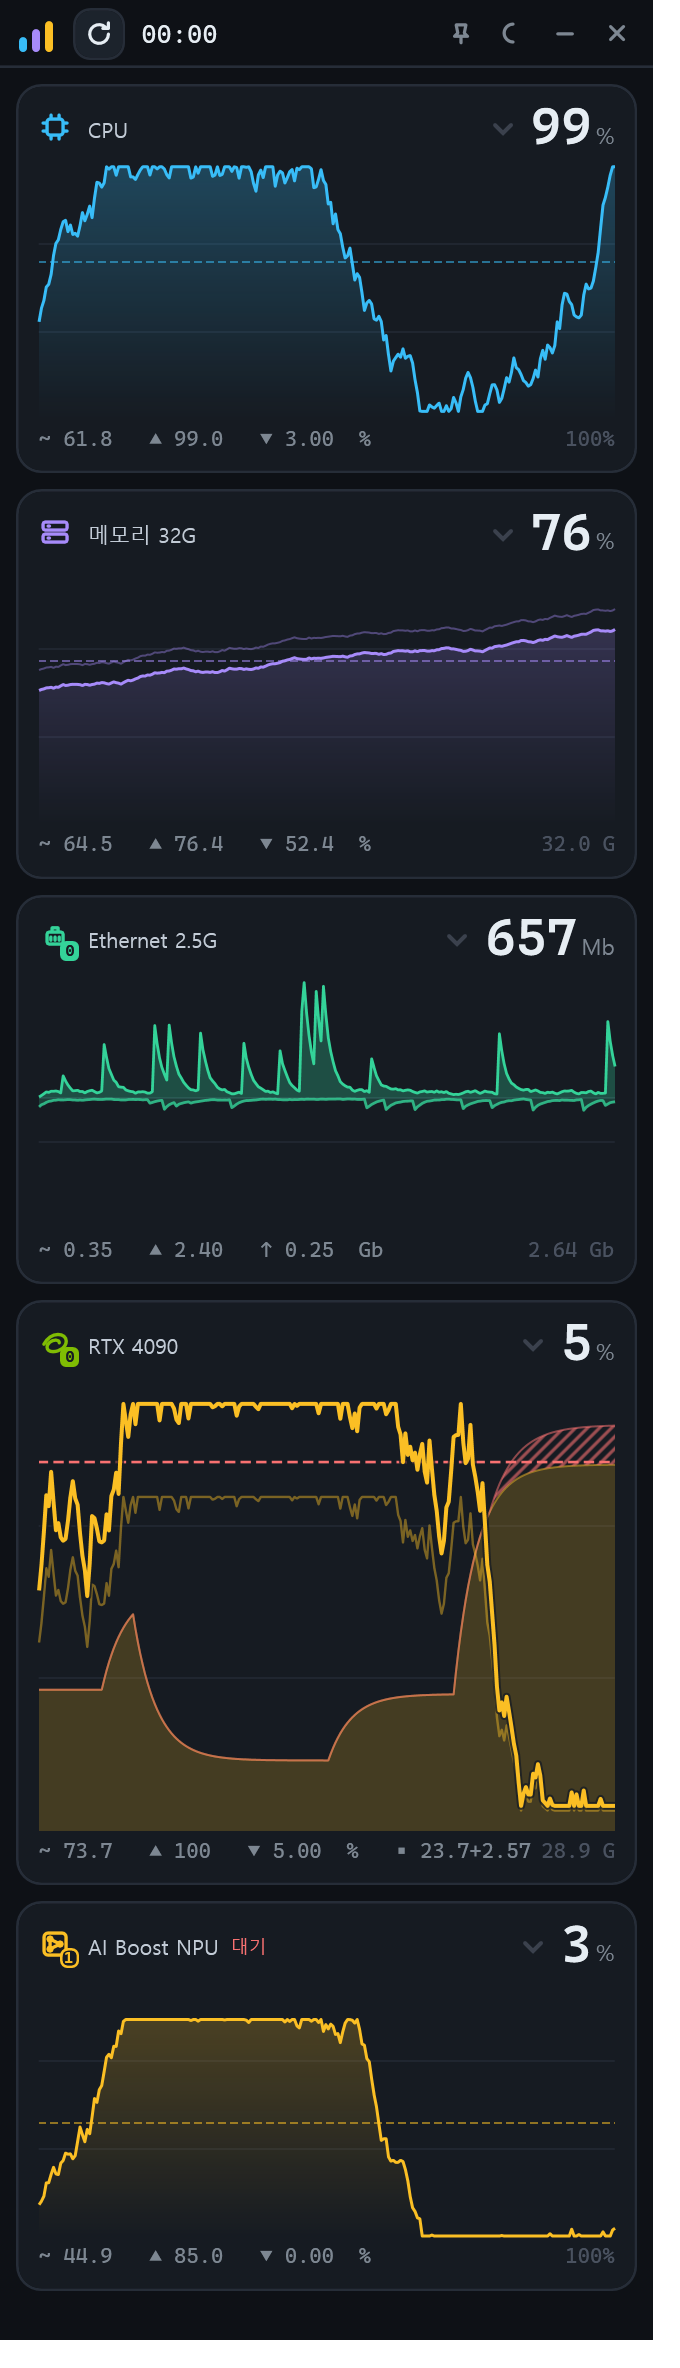
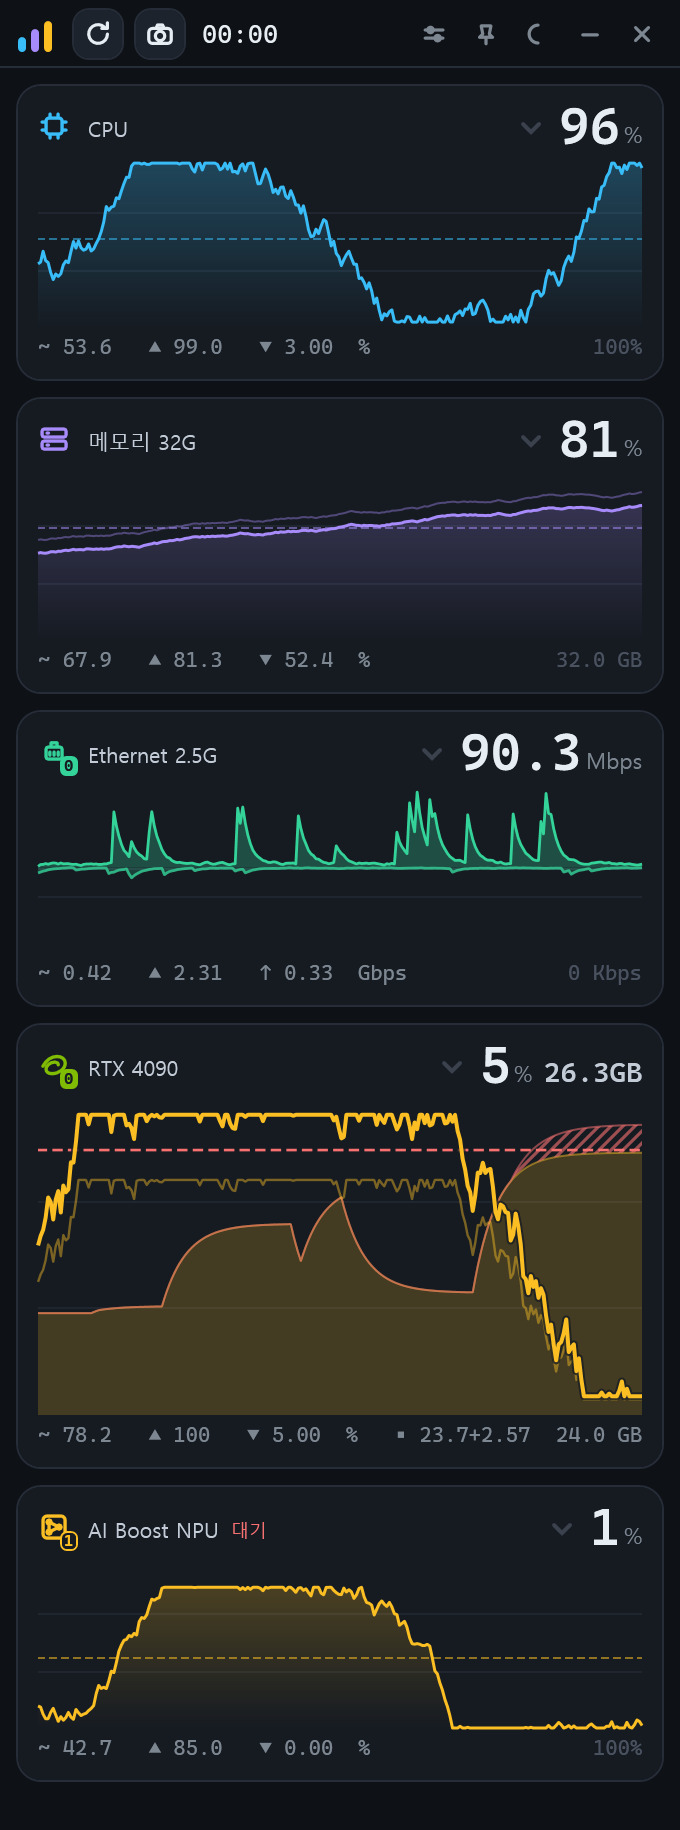
1.0.0 — 배포에 스크린샷·개정 이력을 싣고 버전을 올린다
README 스크린샷이 9/23 판이라 새 제목 표시줄 버튼도 없고 단위 표기도 옛것이었다.
렌더 테스트에 --height 를 더해(이 노트북은 작업 영역이 낮아 자동 접힘이 걸린 모습만
나온다) 다시 찍고, 배포 패키지에 CHANGE_LOG.md 와 docs/screenshot.png 를 넣는다.
README 가 상대 경로로 가리키므로 폴더 구조까지 그대로 만든다.

전체 재빌드에서만 드러나던 CS0108(SnapshotWindow.Style 이 FrameworkElement.Style 을
가림)도 함께 고친다.

버전은 0.9.0 → 1.0.0. M6 MCP 에서 0.9 를 붙였고 M7 안정화와 M8 스냅샷 창까지
들어왔으므로 기능 단위로 한 칸 올린다. Directory.Build.props 의 Version 하나가
AssemblyVersion·FileVersion·InformationalVersion 을 모두 끌고 가므로 실행 파일
속성과 배포 폴더 이름이 함께 따라온다.

diff --git a/src/ChronoLoad.App/App.xaml.cs b/src/ChronoLoad.App/App.xaml.cs
@@ -28,6 +28,9 @@ public partial class App : Application
         {
             int scrubIndex = Array.FindIndex(e.Args, a => a == "--scrub");
             int widthIndex = Array.FindIndex(e.Args, a => a == "--width");
+            int heightIndex = Array.FindIndex(e.Args, a => a == "--height");
+            double? windowHeight = heightIndex >= 0 && heightIndex + 1 < e.Args.Length
+                && double.TryParse(e.Args[heightIndex + 1], out double dip) ? dip : null;
             TimeSpan? width = widthIndex >= 0 && widthIndex + 1 < e.Args.Length
                 && double.TryParse(e.Args[widthIndex + 1], out double seconds)
                 ? TimeSpan.FromSeconds(seconds) : null;
@@ -37,7 +40,7 @@ public partial class App : Application
                 e.Args.Contains("--collapsed"), scrub, e.Args.Contains("--hotplug"),
                 e.Args.Contains("--about"), e.Args.Contains("--scrub-drift"),
                 e.Args.Contains("--gap"), width, e.Args.Contains("--settings"),
-                e.Args.Contains("--snapshot"));
+                e.Args.Contains("--snapshot"), windowHeight);
             return;
         }
 
@@ -145,7 +148,7 @@ public partial class App : Application
     private void RunRenderTest(string outputPath, bool light, bool collapsed, int? scrubIndex = null,
                                bool hotPlug = false, bool about = false, bool scrubDrift = false,
                                bool gap = false, TimeSpan? width = null, bool settings = false,
-                               bool snapshot = false)
+                               bool snapshot = false, double? windowHeight = null)
     {
         // 렌더 테스트는 합성 장치를 쓴다. 실제 설정 폴더를 그대로 쓰면 사용자의 창 위치를
         // 읽어 와 그림이 달라지고, 끝낼 때 gpu:demo 같은 가짜 장치 키를 사용자 파일에 남긴다.
@@ -174,6 +177,12 @@ public partial class App : Application
             ShowInTaskbar = false,
         };
         window.Show();
+
+        // README 스크린샷은 이 노트북 화면(작업 영역이 낮다)에 눌리지 않은 모습이어야 한다.
+        // 창을 띄운 <b>뒤에</b> 높이를 준다 — 앞서 주면 첫 실행 높이 계산(작업 영역 85% 상한)이 덮는다.
+        if (windowHeight is { } dip)
+            window.Dispatcher.InvokeAsync(() => window.Height = dip,
+                System.Windows.Threading.DispatcherPriority.Loaded);
 
         if (hotPlug) RunHotPlugScript(window, registry, engine!, outputPath);
         else if (scrubDrift) RunScrubDriftScript(window, registry, engine!, outputPath);

diff --git a/src/ChronoLoad.App/Controls/SnapshotWindow.cs b/src/ChronoLoad.App/Controls/SnapshotWindow.cs
@@ -182,14 +182,14 @@ public sealed class SnapshotWindow : Window
         stack.Children.Add(rulerHost);
 
         var row = new DockPanel { Height = 20, LastChildFill = true };
-        Style(_rangeStart, palette.Dim);
-        Style(_rangeEnd, palette.Dim);
-        Style(_zoomText, palette.Fg);
+        AsAxisLabel(_rangeStart, palette.Dim);
+        AsAxisLabel(_rangeEnd, palette.Dim);
+        AsAxisLabel(_zoomText, palette.Fg);
 
         DockPanel.SetDock(_rangeStart, Dock.Left);
         row.Children.Add(_rangeStart);
 
-        Style(_instant, palette.Fg);
+        AsAxisLabel(_instant, palette.Fg);
         _instant.Margin = new Thickness(10, 0, 0, 0);
         _instant.Visibility = Visibility.Collapsed;
         DockPanel.SetDock(_instant, Dock.Left);
@@ -525,7 +525,8 @@ public sealed class SnapshotWindow : Window
         VerticalAlignment = VerticalAlignment.Center,
     };
 
-    private static void Style(TextBlock block, Color color)
+    // FrameworkElement.Style 을 가리지 않도록 이름을 달리한다(CS0108).
+    private static void AsAxisLabel(TextBlock block, Color color)
     {
         block.FontFamily = new FontFamily("Cascadia Mono, Consolas");
         block.FontSize = 10.5;

diff --git a/CHANGE_LOG.md b/CHANGE_LOG.md
@@ -37,6 +37,8 @@
 | **1.16** | **불투명도가 뒤를 비치지 않던 것을 고침**(§8.5·§9.4) — `AllowsTransparency="True"` 를 켠다. 끈 상태의 `Window.Opacity` 는 내용을 창 배경색 쪽으로 흐리게 할 뿐이었다. `WS_EX_LAYERED` 우회는 WPF 가 확장 스타일을 **오류 없이 되돌려** 막힌다(로그로 확인). 마젠타 배경 위 실측으로 창 안쪽 픽셀이 `(22,27,34)` → `(186,8,189)` 로 바뀌는 것을, 대가인 소프트웨어 합성이 CPU 0.575% 로 무시할 수준인 것을 확인 |
 | **1.17** | 설정 팝오버에 **닫기 버튼**(§11). 함께 **포커스 상실 시 자동 닫힘을 걷어냈다** — 불투명도는 본 창을 보면서 맞추는 값인데 본 창을 누르면 설정 창이 사라져, 미리보기를 확인하는 행동이 곧 창을 닫는 행동이 되고 있었다. 닫는 길은 ✕ 와 `Esc` |
 | **1.18** | **§15.2 정리** — 하지 않기로 한 것을 문서에서 걷어냄. 「장치 이름 3단계」 표를 상시 표시로(§9.3), 무트래픽 5분 숨김을 §5.3·§13 과 `NetworkProvider` 죽은 코드에서 제거, Wi-Fi 밴드·SSID·신호 세기 제거(§5.3), solo 더블클릭·카드별 리셋·⟲ 롱프레스 제거(§9.4·§7.3), UX 문서의 접힘 프리셋은 절뿐 아니라 **라이브 목업의 버튼과 코드까지** 제거(절 번호 07~19 → 06~18, 참조 5곳 교정) |
+| **1.19** | README 스크린샷 현행화 — 9/23 판이라 새 제목 표시줄 버튼도 없고 단위 표기도 옛것(`32.0 G`·`2.64 Gb`)이었다. 배포 패키지에 `CHANGE_LOG.md` 와 `docs/screenshot.png` 추가(README 가 상대 경로로 가리키므로 폴더 구조까지). 렌더 테스트 `--height` 추가 — 이 노트북은 작업 영역이 낮아 자동 접힘이 걸린 모습만 나왔다. 전체 재빌드에서 드러난 CS0108(`Style` 이 `FrameworkElement.Style` 을 가림) 수정 |
+| **1.20** | **1.0.0 배포** — 버전을 0.9.0 → 1.0.0 으로 올렸다. M6 MCP 에서 0.9 를 붙였고, M7 안정화(종료 누수·포트 폴백·투명도)와 M8 스냅샷 창까지 들어왔으므로 기능 단위로 한 칸 올린 것이다. `Directory.Build.props` 의 `Version` 하나가 `AssemblyVersion`·`FileVersion`·`InformationalVersion` 을 모두 끌고 가므로 실행 파일 속성과 배포 폴더 이름(`ChronoLoad-1.0.0-win-x64`)이 함께 따라온다. README 「현재 상태」 도 1.0.0 기준으로 다시 썼다 — 설계서에 쓰여 있는데 구현되지 않은 항목은 이제 남아 있지 않고, 남은 것은 실측해야 정할 것들뿐이다 |
 
 ---
 

diff --git a/PROJECT.md b/PROJECT.md
@@ -2,7 +2,7 @@
 
 > GPU 워크로드 중심의 실시간 시스템 모니터. WPF 세로형 위젯 + MCP 서버.
 
-- **문서 버전**: 1.18 — 개정 이력은 [`CHANGE_LOG.md`](CHANGE_LOG.md)
+- **문서 버전**: 1.20 — 개정 이력은 [`CHANGE_LOG.md`](CHANGE_LOG.md)
 - **최초 작성**: 2026-09-23 · **최종 갱신**: 2026-09-26
 - **대상 런타임**: .NET 10 (`net10.0-windows`), Windows 10 20H2 이상 / Windows 11
 - **UX 시각 설계서**: [`docs/ux-design.html`](docs/ux-design.html) — 브라우저로 열면 라이브 목업이 동작합니다
